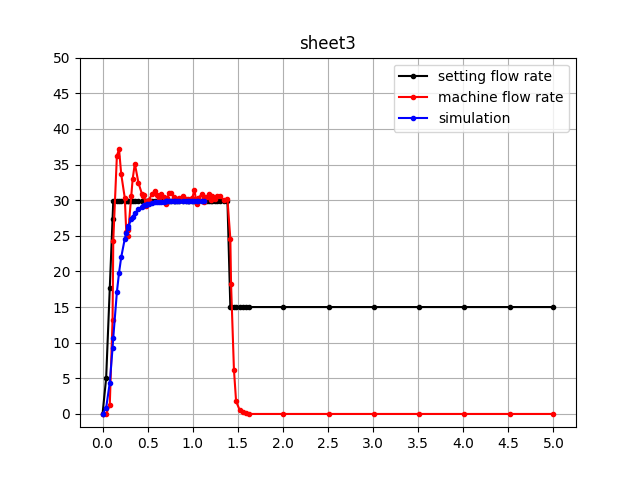
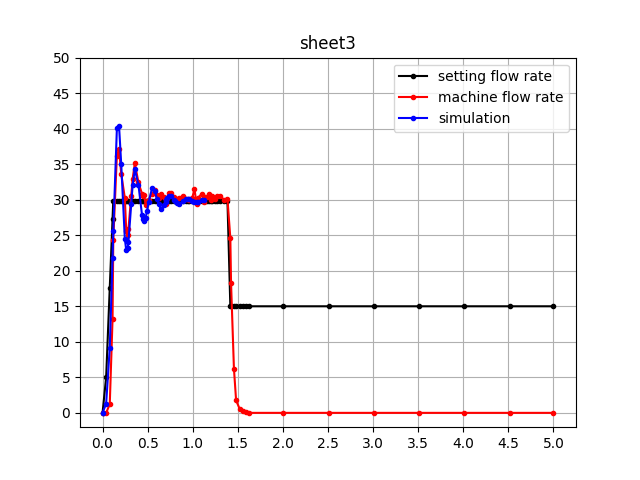
update transfer function.

Changed region(s): [[0.0938, 0.25, 0.9062, 0.875], [0.0625, 0.4062, 0.125, 0.4375]]

diff --git a/scripts/simulation.py b/scripts/simulation.py
@@ -33,12 +33,9 @@ ts = tm
 setting_flow_rate = f(tm)
 plt.plot(ts, setting_flow_rate, 'k.-', label='setting flow rate')
 
-
-wn = 100
-zeta = 0.1
+wn = 33
+zeta = 0.0087
 tout, yout, xout = lsim2(([1, wn*wn], [1, zeta*wn*wn, wn*wn]), U=setting_flow_rate[:-25], T=ts[:-25])
-# tout, yout, xout = lsim2(([1, 1, 1], [1, 1, 1, 1, 1]), U=setting_flow_rate, T=ts)
-
 
 plt.plot(tm, machine_flow_rate, 'r.-', label='machine flow rate')
 plt.plot(tout, yout, 'b.-', label='simulation')
